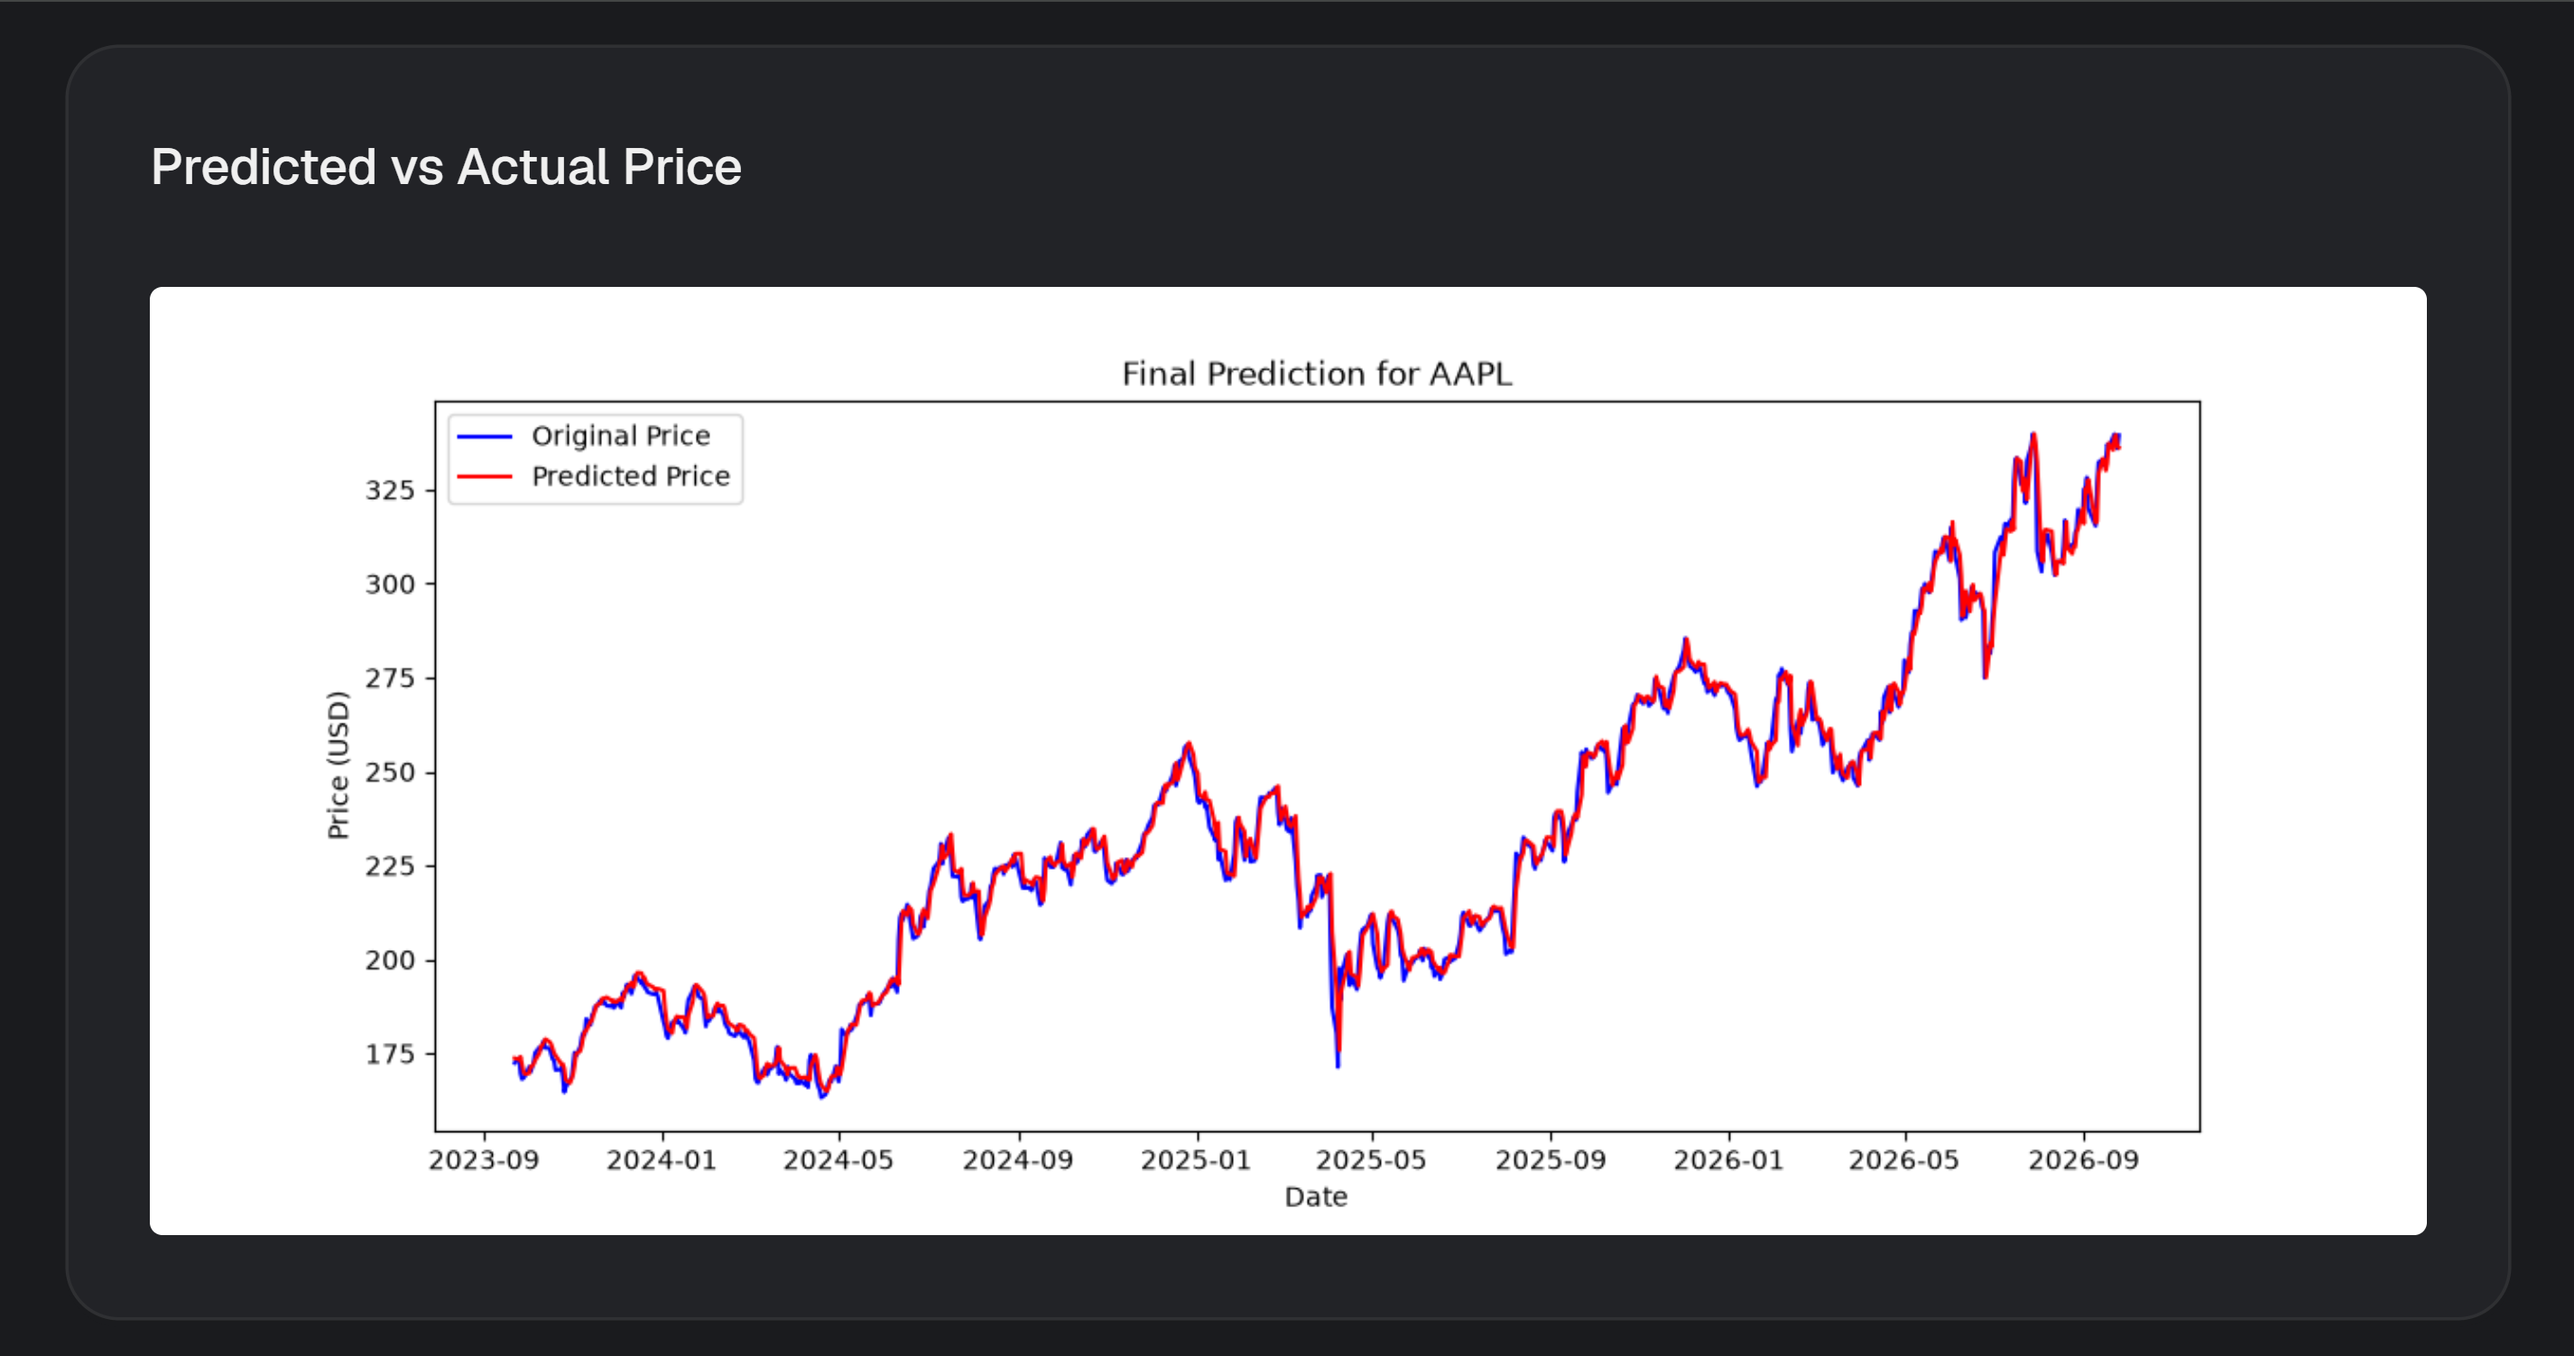
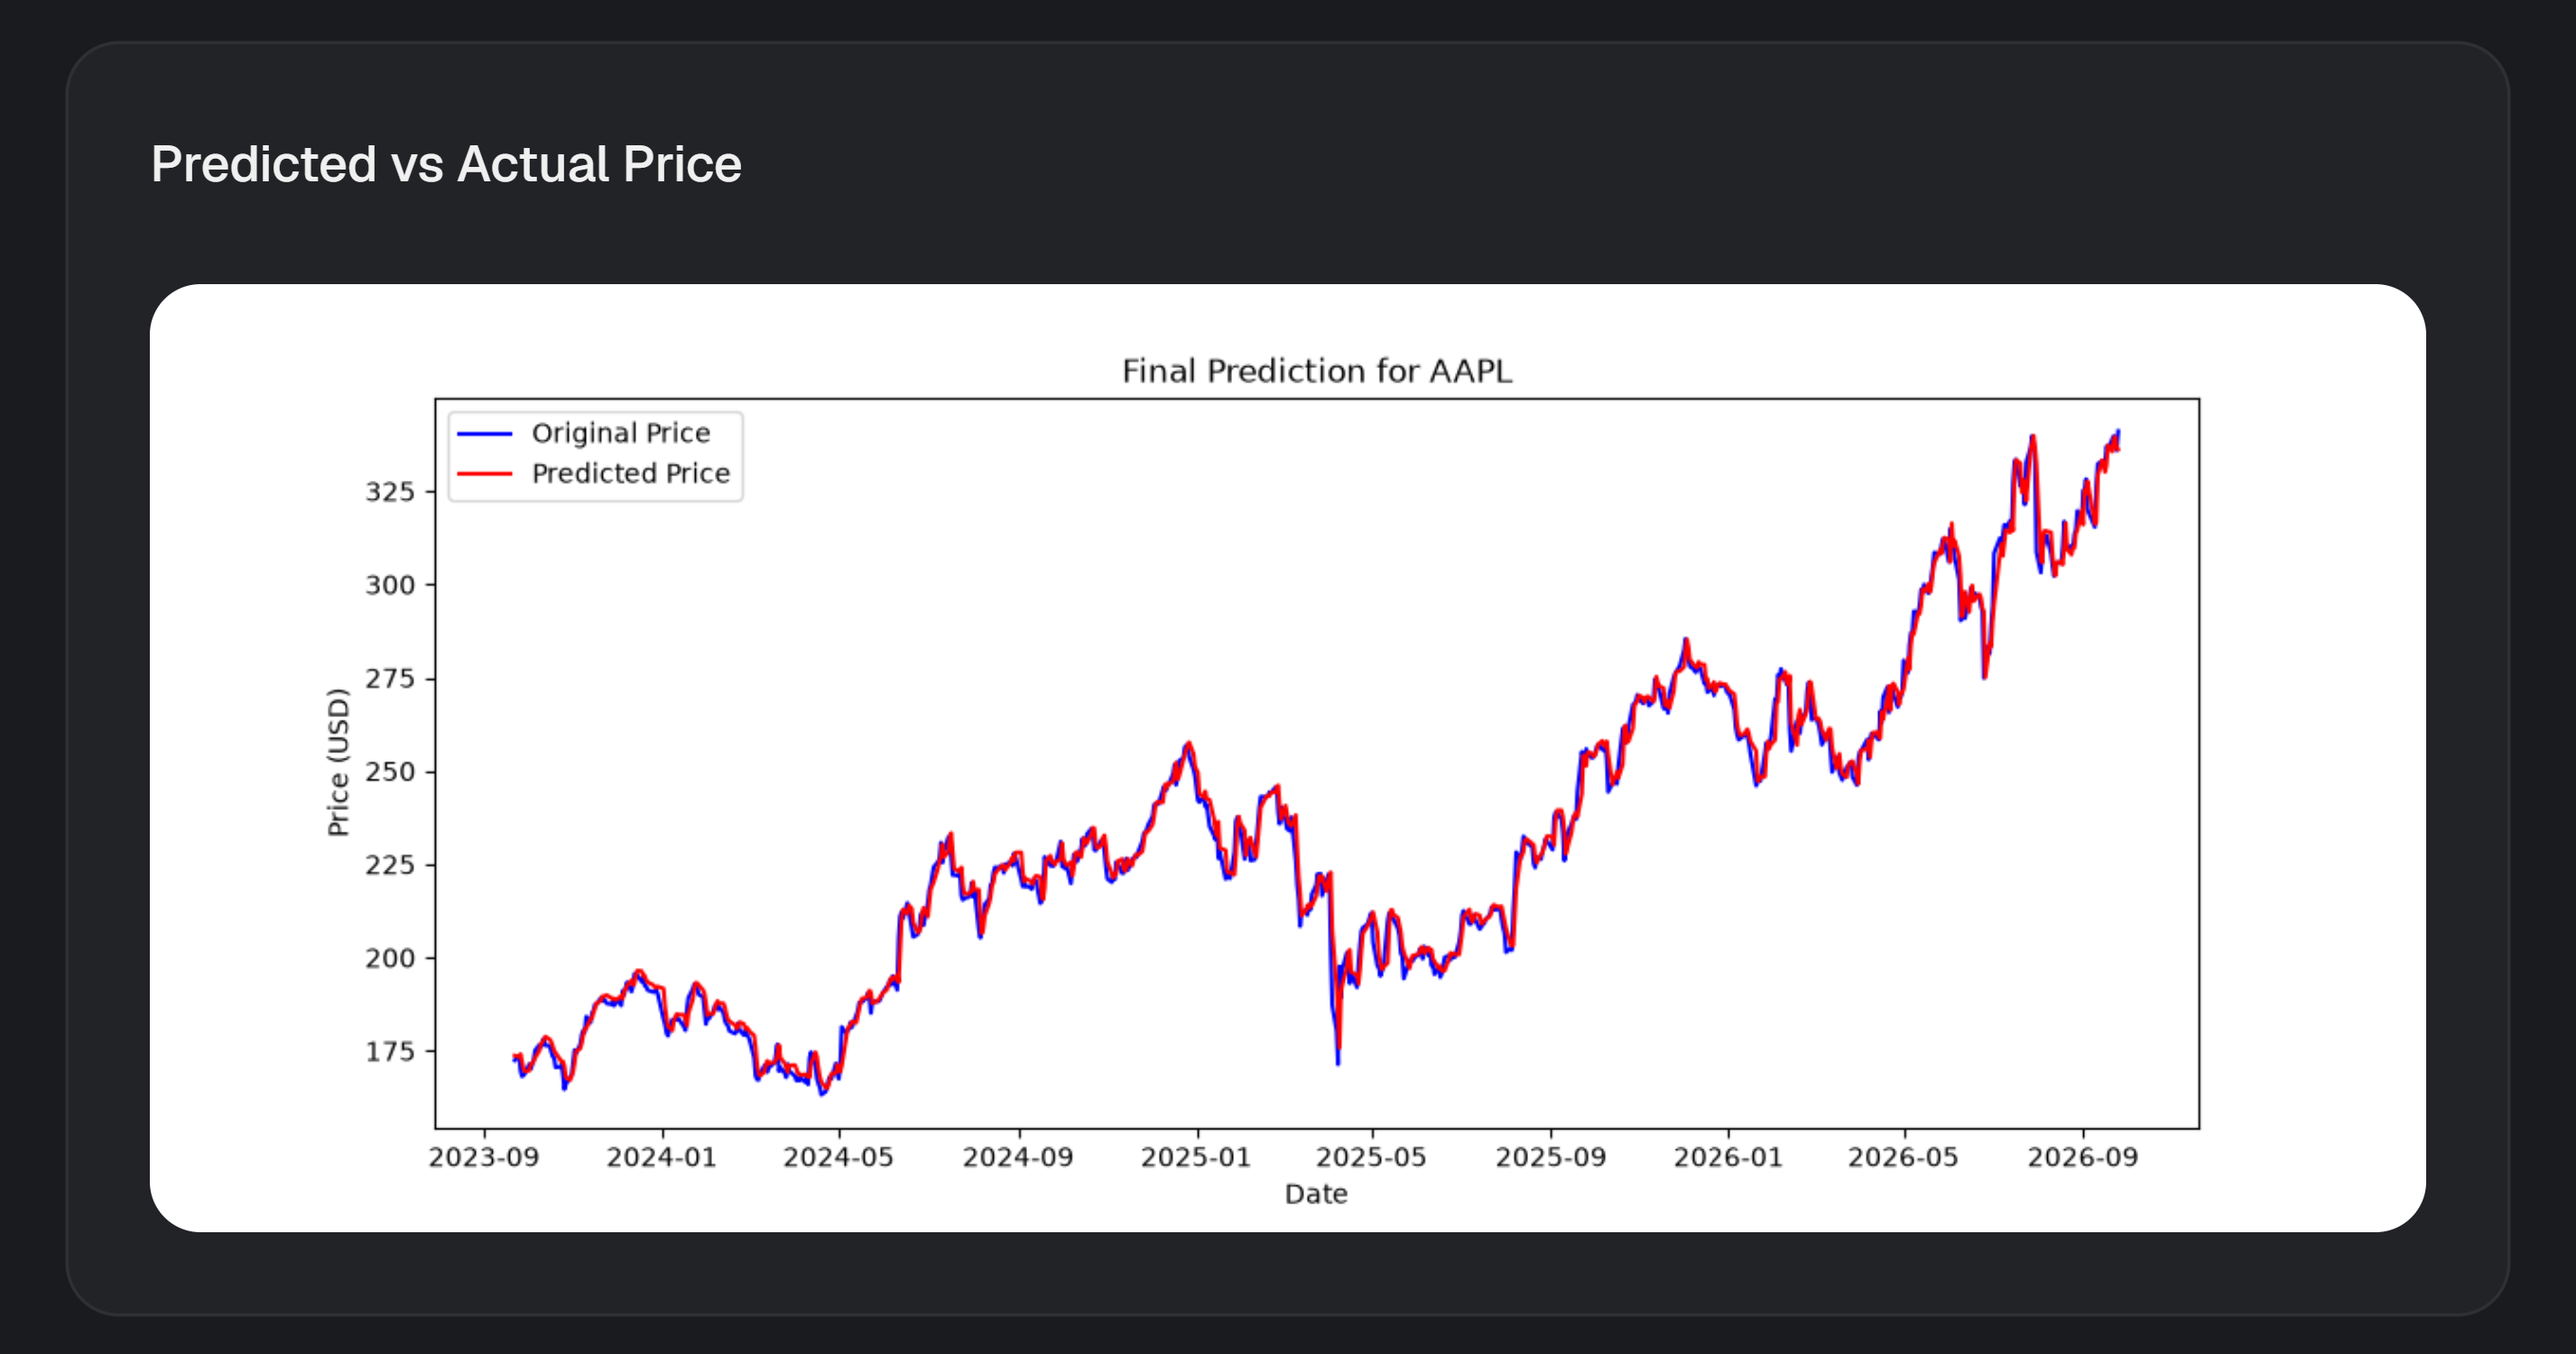
Chaneg border radius in image in PlotCard to match border radius of shadcn/ui Card component

diff --git a/react-frontend/src/components/PlotCard.tsx b/react-frontend/src/components/PlotCard.tsx
@@ -7,7 +7,7 @@ function PlotCard({ title, src }: { title: string; src: string }) {
         <CardTitle>{title}</CardTitle>
       </CardHeader>
       <CardContent>
-        <img src={src} alt={title} className='w-full rounded' />
+        <img src={src} alt={title} className='w-full rounded-xl' />
       </CardContent>
     </Card>
   )
